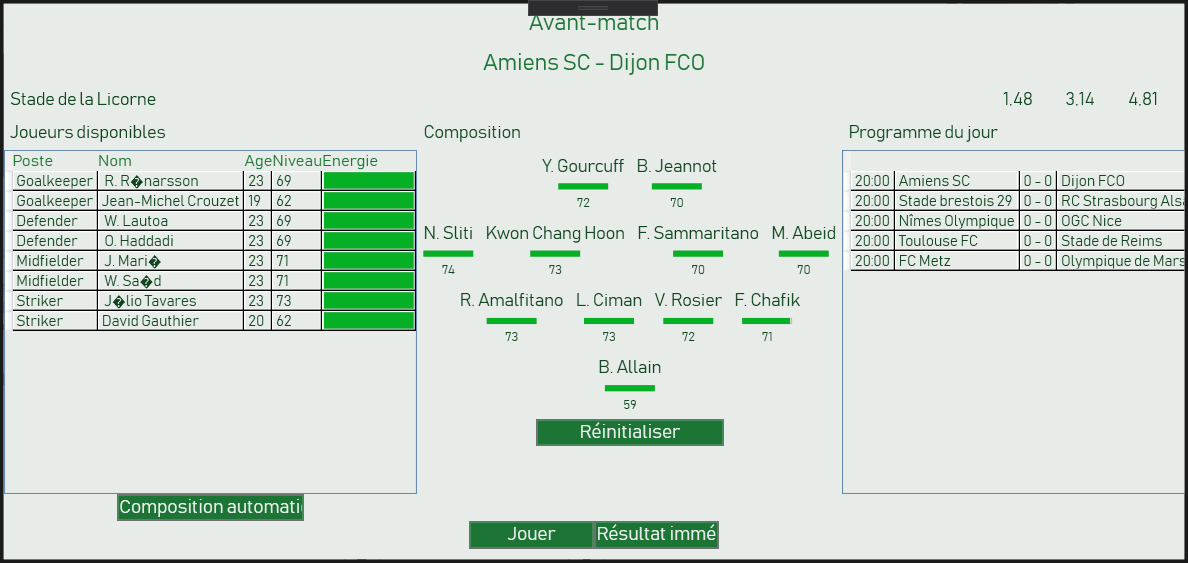
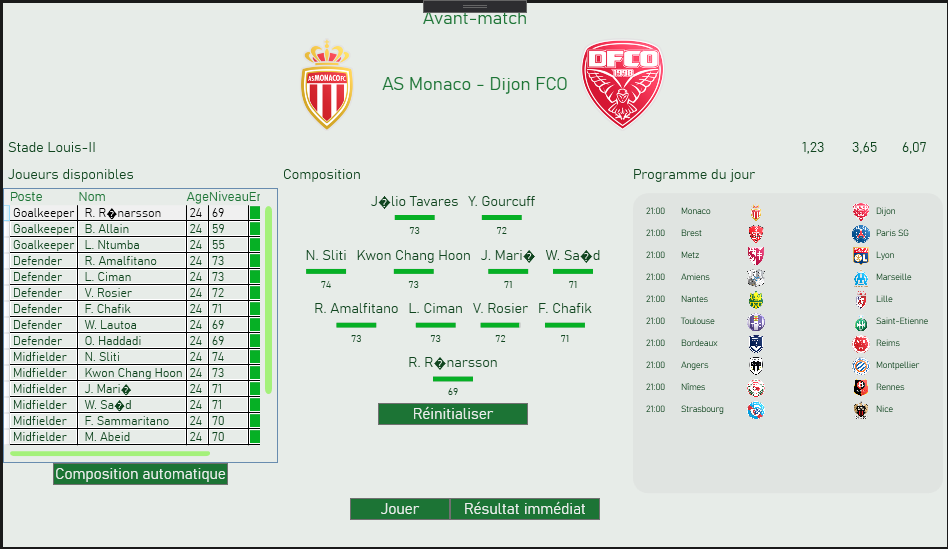
Work on pre game screen

diff --git a/TheManager_GUI/PregameWindow.xaml b/TheManager_GUI/PregameWindow.xaml
@@ -5,11 +5,15 @@
         xmlns:mc="http://schemas.openxmlformats.org/markup-compatibility/2006"
         xmlns:local="clr-namespace:TheManager_GUI"
         mc:Ignorable="d"
-        Title="Windows_AvantMatch" Height="450" Width="950" Style="{StaticResource StyleWindows}">
+        Title="Windows_AvantMatch" Height="550" Width="950" Style="{StaticResource StyleWindows}">
 	<Grid>
 		<StackPanel Orientation="Vertical">
 			<Label Content="Avant-match" Style="{StaticResource StyleLabel1}"/>
-			<Label Name="lbMatch" Content="Dijon - Lyon" Style="{StaticResource StyleLabel1}"/>
+			<StackPanel Orientation="Horizontal" HorizontalAlignment="Center">
+				<Image Name="imgEquipe1" Width="100" Height="100" Source="generic.png"></Image>
+				<Label Name="lbMatch" Content="Dijon - Lyon" Style="{StaticResource StyleLabel1}" VerticalAlignment="Center"/>
+				<Image Name="imgEquipe2" Width="100" Height="100" Source="generic.png"></Image>
+			</StackPanel>
 			<Grid>
 				<Label Name="lbStade" Content="Stade GG" Style="{StaticResource StyleLabel2}"/>
 				<StackPanel Orientation="Horizontal" HorizontalAlignment="Right">
@@ -19,7 +23,7 @@
 				</StackPanel>
 			</Grid>
 			<StackPanel Orientation="Horizontal">
-				<StackPanel Orientation="Vertical">
+				<StackPanel Orientation="Vertical" Width="275">
 					<Label Content="Joueurs disponibles" Style="{StaticResource StyleLabel2}"/>
 					<DataGrid IsReadOnly="True" HorizontalAlignment="Center" Height="275" Name="dgJoueursDispo" MouseDoubleClick="DgJoueursDispo_MouseDoubleClick" Style="{StaticResource StyleDataGrid}" CellStyle="{StaticResource StyleDataCellGrid}" ColumnHeaderStyle="{StaticResource StyleDataHeaderGrid}">
 						<DataGrid.Columns>
@@ -36,9 +40,9 @@
 							</DataGridTemplateColumn>
 						</DataGrid.Columns>
 					</DataGrid>
-					<Button Name="btnCompoAuto" Content="Composition automatique" Style="{StaticResource StyleButton1}" Width="150" Click="BtnCompoAuto_Click"/>
+					<Button Name="btnCompoAuto" Content="Composition automatique" Style="{StaticResource StyleButton1}" Width="175" Click="BtnCompoAuto_Click"/>
 				</StackPanel>
-				<StackPanel Orientation="Vertical">
+				<StackPanel Orientation="Vertical" Width="350">
 					<Label Content="Composition" Style="{StaticResource StyleLabel2}"/>
 					<StackPanel Orientation="Horizontal" HorizontalAlignment="Center" Name="spAttaquants" >
 						<StackPanel Orientation="Vertical">
@@ -55,21 +59,18 @@
 					</StackPanel>
 					<Button Name="btnRAZ" Content="Réinitialiser" Style="{StaticResource StyleButton1}" Width="150" Click="BtnRAZ_Click"/>
 				</StackPanel>
-				<StackPanel Orientation="Vertical">
+				<StackPanel Orientation="Vertical" Width="320">
 					<Label Style="{StaticResource StyleLabel2}" Content="Programme du jour"/>
-					<DataGrid IsReadOnly="True" Name="dgMatchs" Height="275" Style="{StaticResource StyleDataGrid}" CellStyle="{StaticResource StyleDataCellGrid}" ColumnHeaderStyle="{StaticResource StyleDataHeaderGrid}">
-						<DataGrid.Columns>
-							<DataGridTextColumn Header="" Binding="{Binding Heure}"/>
-							<DataGridTextColumn Header="" Binding="{Binding Equipe1}"/>
-							<DataGridTextColumn Header="" Binding="{Binding Score}"/>
-							<DataGridTextColumn Header="" Binding="{Binding Equipe2}"/>
-						</DataGrid.Columns>
-					</DataGrid>
+					<Border Style="{StaticResource StyleBorderStackPanel}" Margin="5" Height="300">
+						<StackPanel Orientation="Vertical" Name="spGames">
+							
+						</StackPanel>
+					</Border>
 				</StackPanel>
 			</StackPanel>
 			<StackPanel Orientation="Horizontal" HorizontalAlignment="Center">
 				<Button Name="btnJouer" Content="Jouer" Style="{StaticResource StyleButton1}" Width="100" Click="Button_Click"/>
-				<Button Name="btnSimuler" Content="Résultat immédiat" Style="{StaticResource StyleButton1}" Width="100" Click="BtnSimuler_Click"/>
+				<Button Name="btnSimuler" Content="Résultat immédiat" Style="{StaticResource StyleButton1}" Width="150" Click="BtnSimuler_Click"/>
 			</StackPanel>
 		</StackPanel>
     </Grid>

diff --git a/TheManager_GUI/PregameWindow.xaml.cs b/TheManager_GUI/PregameWindow.xaml.cs
@@ -3,7 +3,9 @@ using System.Collections.Generic;
 using System.Windows;
 using System.Windows.Controls;
 using System.Windows.Input;
+using System.Windows.Media.Imaging;
 using TheManager;
+using TheManager_GUI.ViewMisc;
 
 namespace TheManager_GUI
 {
@@ -71,11 +73,8 @@ namespace TheManager_GUI
             _matchs = m;
             _club = c;
 
-            foreach(Match match in _matchs)
-            {
-                dgMatchs.Items.Add(new ProgrammeElement { Heure = match.day.ToShortTimeString(), Equipe1 = match.home, Equipe2 = match.away, Score = match.score1 + " - " + match.score2 });
-            }
-
+            ViewMatches view = new ViewMatches(_matchs, false, true, false, false, true, false, 10);
+            view.Full(spGames);
 
             foreach (Player j in c.Players())
             {
@@ -87,9 +86,19 @@ namespace TheManager_GUI
             lbCote1.Content = m[0].odd1.ToString("0.00");
             lbCoteN.Content = m[0].oddD.ToString("0.00");
             lbCote2.Content = m[0].odd2.ToString("0.00");
+            try
+            {
+                imgEquipe1.Source = new BitmapImage(new Uri(Utils.Logo(m[0].home)));
+                imgEquipe2.Source = new BitmapImage(new Uri(Utils.Logo(m[0].away)));
+            }
+            catch
+            {
+                //We don't show any logo if one club has no logo
+            }
+
         }
 
-        
+
         private void DgJoueursDispo_MouseDoubleClick(object sender, MouseButtonEventArgs e)
         {
             if(_joueurs.Count < 11)
